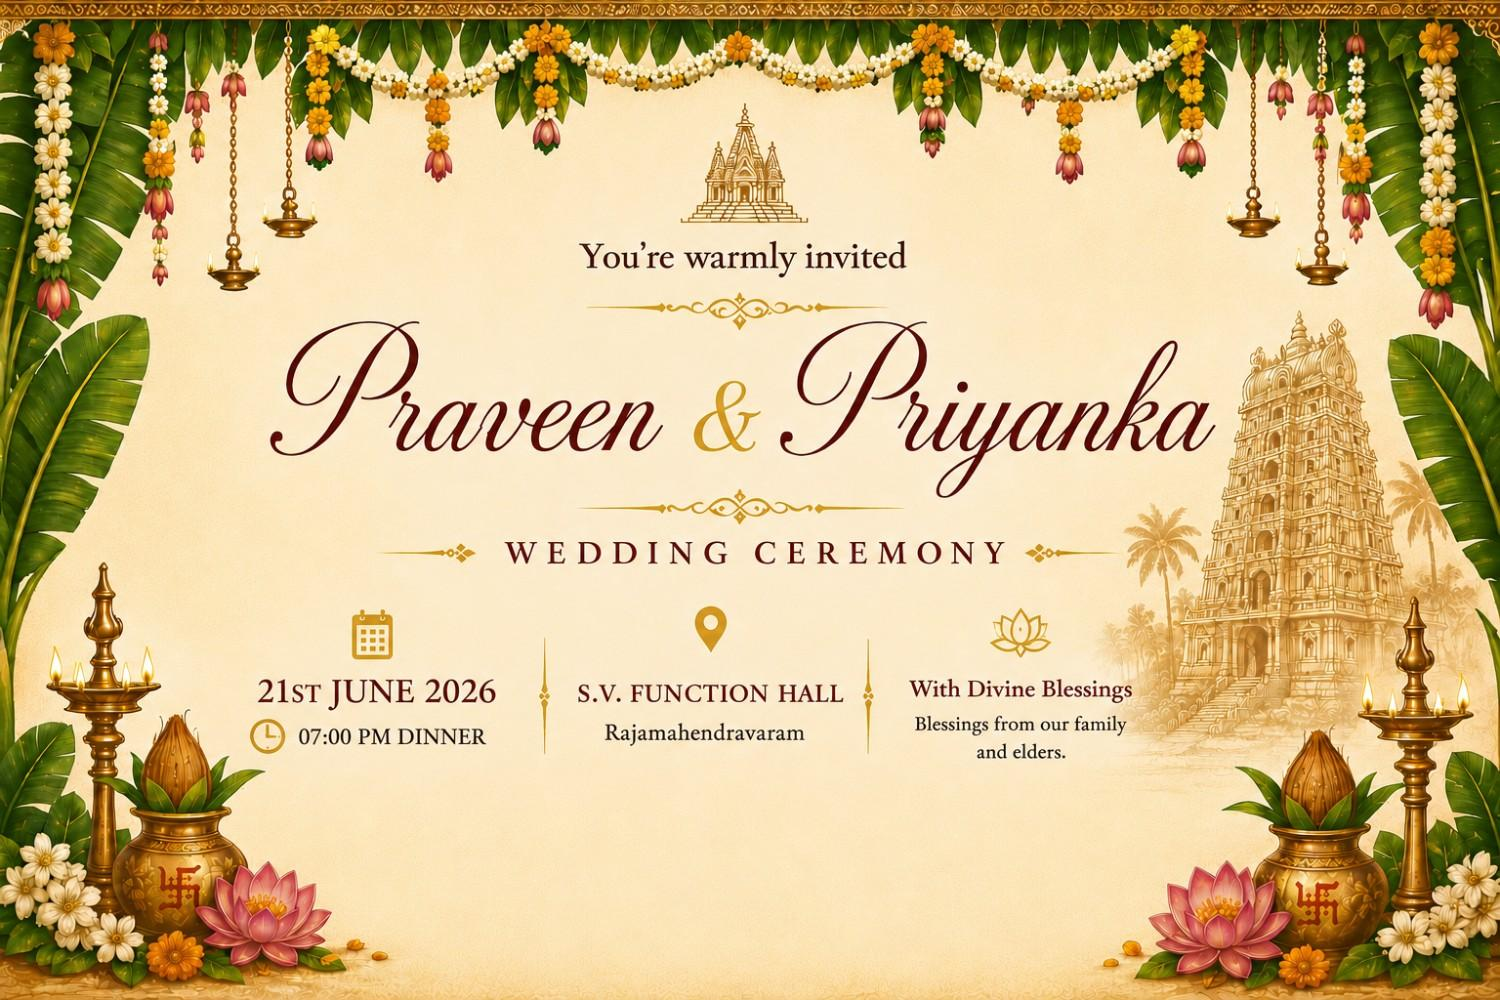
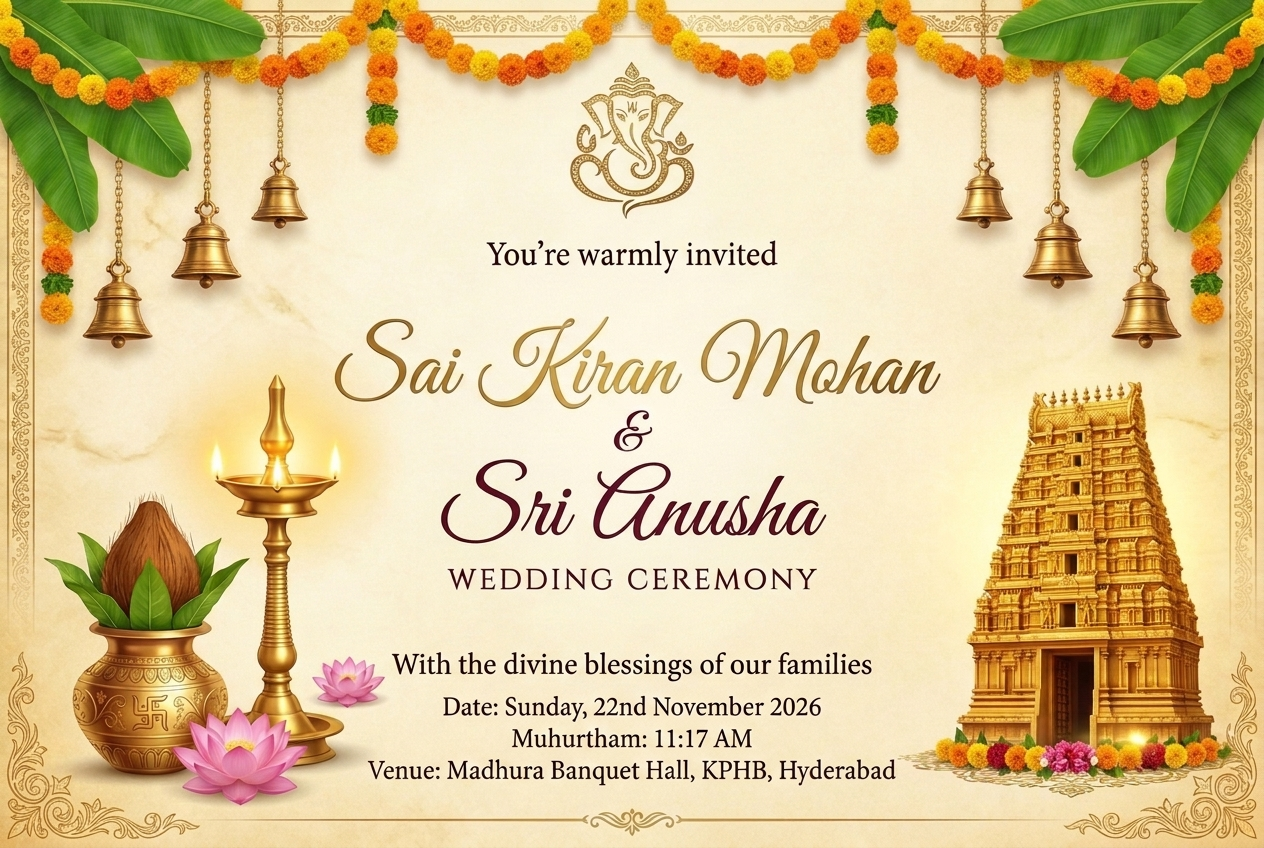
fix: update social preview invitation card with Sai Kiran Mohan & Sri Anusha

diff --git a/app/layout.tsx b/app/layout.tsx
@@ -2,6 +2,9 @@ import type { Metadata } from "next";
 import "./globals.css";
 
 export const metadata: Metadata = {
+  metadataBase: new URL(
+    process.env.NEXT_PUBLIC_SITE_URL || "https://wedding-invitation-eight-nu-66.vercel.app"
+  ),
   title: "Sai Kiran Mohan & Sri Anusha Wedding",
   description:
     "Join us for Sai Kiran Mohan and Sri Anusha's wedding celebration on Sunday, 22nd November 2026 at Madhura Banquet Hall, KPHB, Hyderabad.",
@@ -12,16 +15,19 @@ export const metadata: Metadata = {
       "We cordially invite you to celebrate the wedding of Sai Kiran Mohan & Sri Anusha on Sunday, 22nd November 2026 at Madhura Banquet Hall, KPHB, Hyderabad.",
     images: [
       {
-        url: "/invite.jpg",
+        url: "/og-invite.jpg",
         width: 1200,
-        height: 630,
+        height: 800,
         alt: "Sai Kiran Mohan & Sri Anusha Wedding Invitation",
       },
     ],
   },
   twitter: {
     card: "summary_large_image",
-    images: ["/invite.jpg"],
+    title: "Sai Kiran Mohan & Sri Anusha Wedding",
+    description:
+      "We cordially invite you to celebrate the wedding of Sai Kiran Mohan & Sri Anusha on Sunday, 22nd November 2026 at Madhura Banquet Hall, KPHB, Hyderabad.",
+    images: ["/og-invite.jpg"],
   },
   icons: {
     icon: "/favicon.svg",
